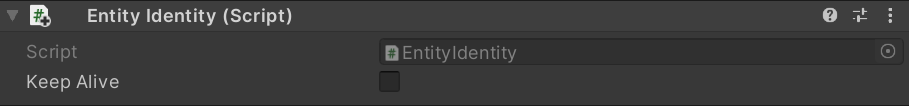
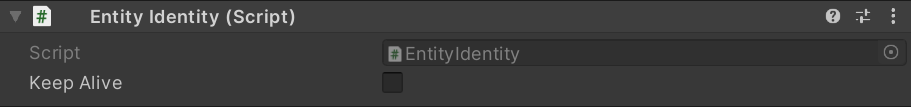
Fixed some image links

diff --git a/docs/Reference/MonoBehaviours/Navigator.md b/docs/Reference/MonoBehaviours/Navigator.md
@@ -4,7 +4,7 @@ This MonoBehaviour is the main behaviour which configures a gameObject as an int
 
 ## Inspector
 
-![EntityIdentity Inspector](../images/NavigatorInspector.png)
+![EntityIdentity Inspector](../../../../images/NavigatorInspector.png)
 
 !!! note
     Some of the following properties set a range instead of a single value, when the agent is first initialised it will choose a random value in this range. This means that if you instantiate many prefabs of the same agent prefab they will all act slightly differently which significantly improves the quality of simulation for large crowds.

diff --git a/docs/Reference/MonoBehaviours/EntityIdentity.md b/docs/Reference/MonoBehaviours/EntityIdentity.md
@@ -7,7 +7,7 @@ This MonoBehaviour automatically maintains a connection between a GameObject in 
 
 ## Inspector
 
-![EntityIdentity Inspector](../images/EntityIdentityInspector.png)
+![EntityIdentity Inspector](../../../../images/EntityIdentityInspector.png)
 
 #### Keep Alive
 

diff --git a/docs/Reference/MonoBehaviours/Urgency.md b/docs/Reference/MonoBehaviours/Urgency.md
@@ -6,7 +6,7 @@ As `Urgency` increases the `Priority` of the agent increases (meaning it will yi
 
 ## Inspector
 
-![EntityIdentity Inspector](../images/UrgencyInspector.png)
+![EntityIdentity Inspector](../../../../images/UrgencyInspector.png)
 
 #### Proxy Create Threshold
 

diff --git a/docs/Reference/MonoBehaviours/Synchroniser.md b/docs/Reference/MonoBehaviours/Synchroniser.md
@@ -4,7 +4,7 @@ This Monobehaviour sychronises the Crowds simulation and the GameObjects in the 
 
 ## Inspector
 
-![EntityIdentity Inspector](../images/SynchroniserInspector.png)
+![EntityIdentity Inspector](../../../../images/SynchroniserInspector.png)
 
 #### Preset
 

diff --git a/docs/Reference/MonoBehaviours/Goal.md b/docs/Reference/MonoBehaviours/Goal.md
@@ -4,7 +4,7 @@ This MonoBehaviour automatically sets the `GoalPosition`, `GoalRadius` and `Goal
 
 ## Inspector
 
-![EntityIdentity Inspector](../../images/GoalInspector.png)
+![EntityIdentity Inspector](../../../../images/GoalInspector.png)
 
 #### Navigator
 

diff --git a/docs/Reference/MonoBehaviours/Sensing/GameObjectSensor.md b/docs/Reference/MonoBehaviours/Sensing/GameObjectSensor.md
@@ -30,7 +30,6 @@ If the GameObject is closer than this distance, the full `Negative Weight` will 
 
 If the GameObject is farther than this distance, the sensor will be not detect it.
 
-
 ## Scripting
 
 #### `Create(string instanceName)`
